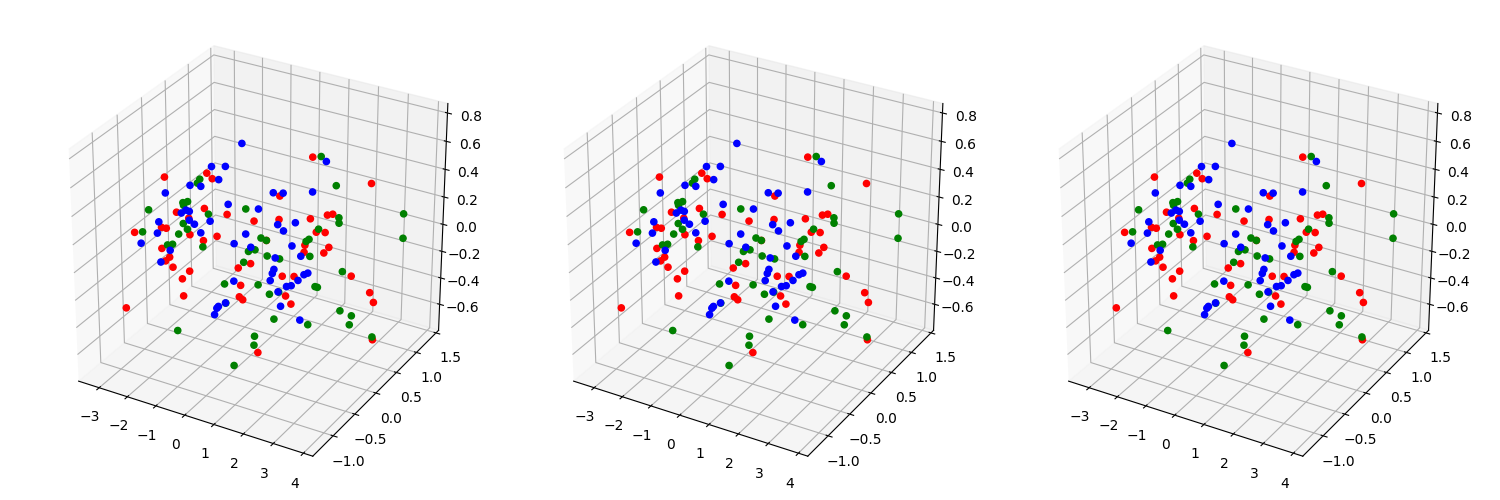
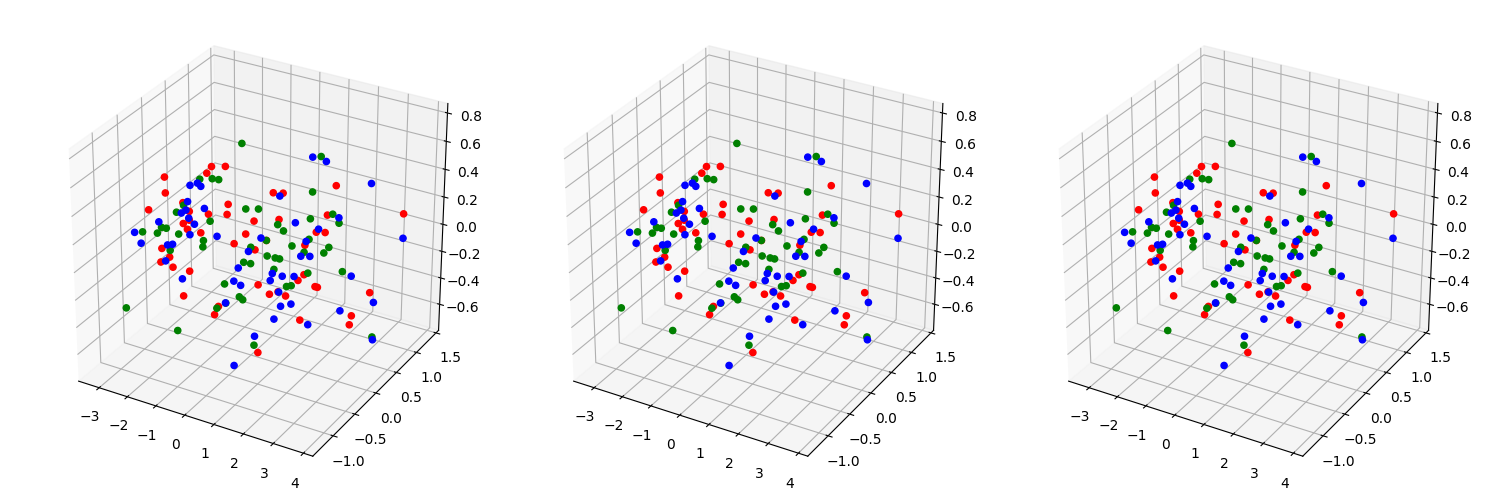
Updated normalizetion on z axis

diff --git a/ddd_subplots/rotate.py b/ddd_subplots/rotate.py
@@ -12,7 +12,7 @@ import shutil
 
 def rotate_z(x: np.ndarray, y: np.ndarray, z: np.ndarray, theta: float):
     w = x+1j*y
-    return np.real(np.exp(1j*theta)*w)/np.sqrt(2), np.imag(np.exp(1j*theta)*w)/np.sqrt(2), z
+    return np.real(np.exp(1j*theta)*w)/np.sqrt(2), np.imag(np.exp(1j*theta)*w)/np.sqrt(2), z/np.sqrt(2)
 
 
 def _job(func: Callable, xs: np.ndarray, ys: np.ndarray, zs: np.ndarray, theta: float, args, kwargs, path):
@@ -48,12 +48,10 @@ def rotate(func: Callable, xs: np.ndarray, ys: np.ndarray, zs: np.ndarray, path:
         **kwargs, keyword argument to be passed to the `func` callable
     """
     os.makedirs(cache_directory, exist_ok=True)
-    xs/=xs.max()
-    ys/=ys.max()
-    zs/=zs.max() 
+    X = MinMaxScaler(feature_range=(-1, 1)).fit_transform(np.array([xs, ys, zs]).T).T
     tasks = [
         (
-            func, xs, ys, zs, 2*np.pi * frame / (duration*fps), args, kwargs,
+            func, *X, 2*np.pi * frame / (duration*fps), args, kwargs,
             "{cache_directory}/{frame}.jpg".format(
                 cache_directory=cache_directory,
                 frame=frame

diff --git a/ddd_subplots/__version__.py b/ddd_subplots/__version__.py
@@ -1,2 +1,2 @@
 """Current version of package ddd_subplots"""
-__version__ = "1.0.4"
+__version__ = "1.0.5"
